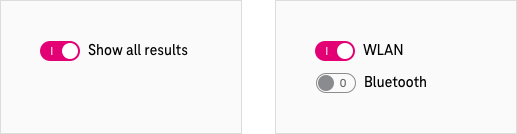
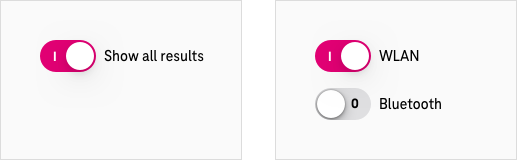
docs(switch): text and illustration

Changed region(s): [[0.0619, 0.2388, 0.4023, 0.4776], [0.588, 0.5373, 0.8665, 0.7761], [0.588, 0.2388, 0.8356, 0.4776]]

diff --git a/packages/storybook-vue/stories/components/switch/switch_de.md b/packages/storybook-vue/stories/components/switch/switch_de.md
@@ -30,9 +30,9 @@ Der Switch in „Large“ funktioniert für alle Web-Apps. Verwende diese Varian
 
 ### Small
 
-Only Verwende diese Variante ausschließlich in Anwendungen, die für die Darstellung auf Desktops entwickelt sind. Ist dein Layout responsiv, kannst du für kleineren Viewportgrößen den Wechsel auf den großen Switch festlegen. this variant for desktop apps. If your layout is responsive, you can change to the large switch for smaller viewport sizes.
+Verwende diese Variante ausschließlich in Anwendungen, die für die Darstellung auf Desktops entwickelt sind. Ist dein Layout responsiv, kannst du für kleineren Viewportgrößen den Wechsel auf den großen Switch festlegen.
 
-![Image Name](assets/3_components/switch/
+![Image Name](assets/3_components/switch/switch_small.png)
 
 ### Android
 

diff --git a/packages/storybook-vue/stories/components/switch/switch.md b/packages/storybook-vue/stories/components/switch/switch.md
@@ -38,7 +38,7 @@ Only use this variant for desktop apps. If your layout is responsive, you can ch
 
 ### Android
 
-Das Label des Switch sollte kurz und verständlich sein. Für einige Fälle eignet sich ein einzelnes Substantiv am besten.
+This variant is ideal if you’re using Scale to build a mobile app that should visually integrate into Android as seamlessly as possible.
 
 ![Image Name](assets/3_components/switch/switch_android.png)
 
